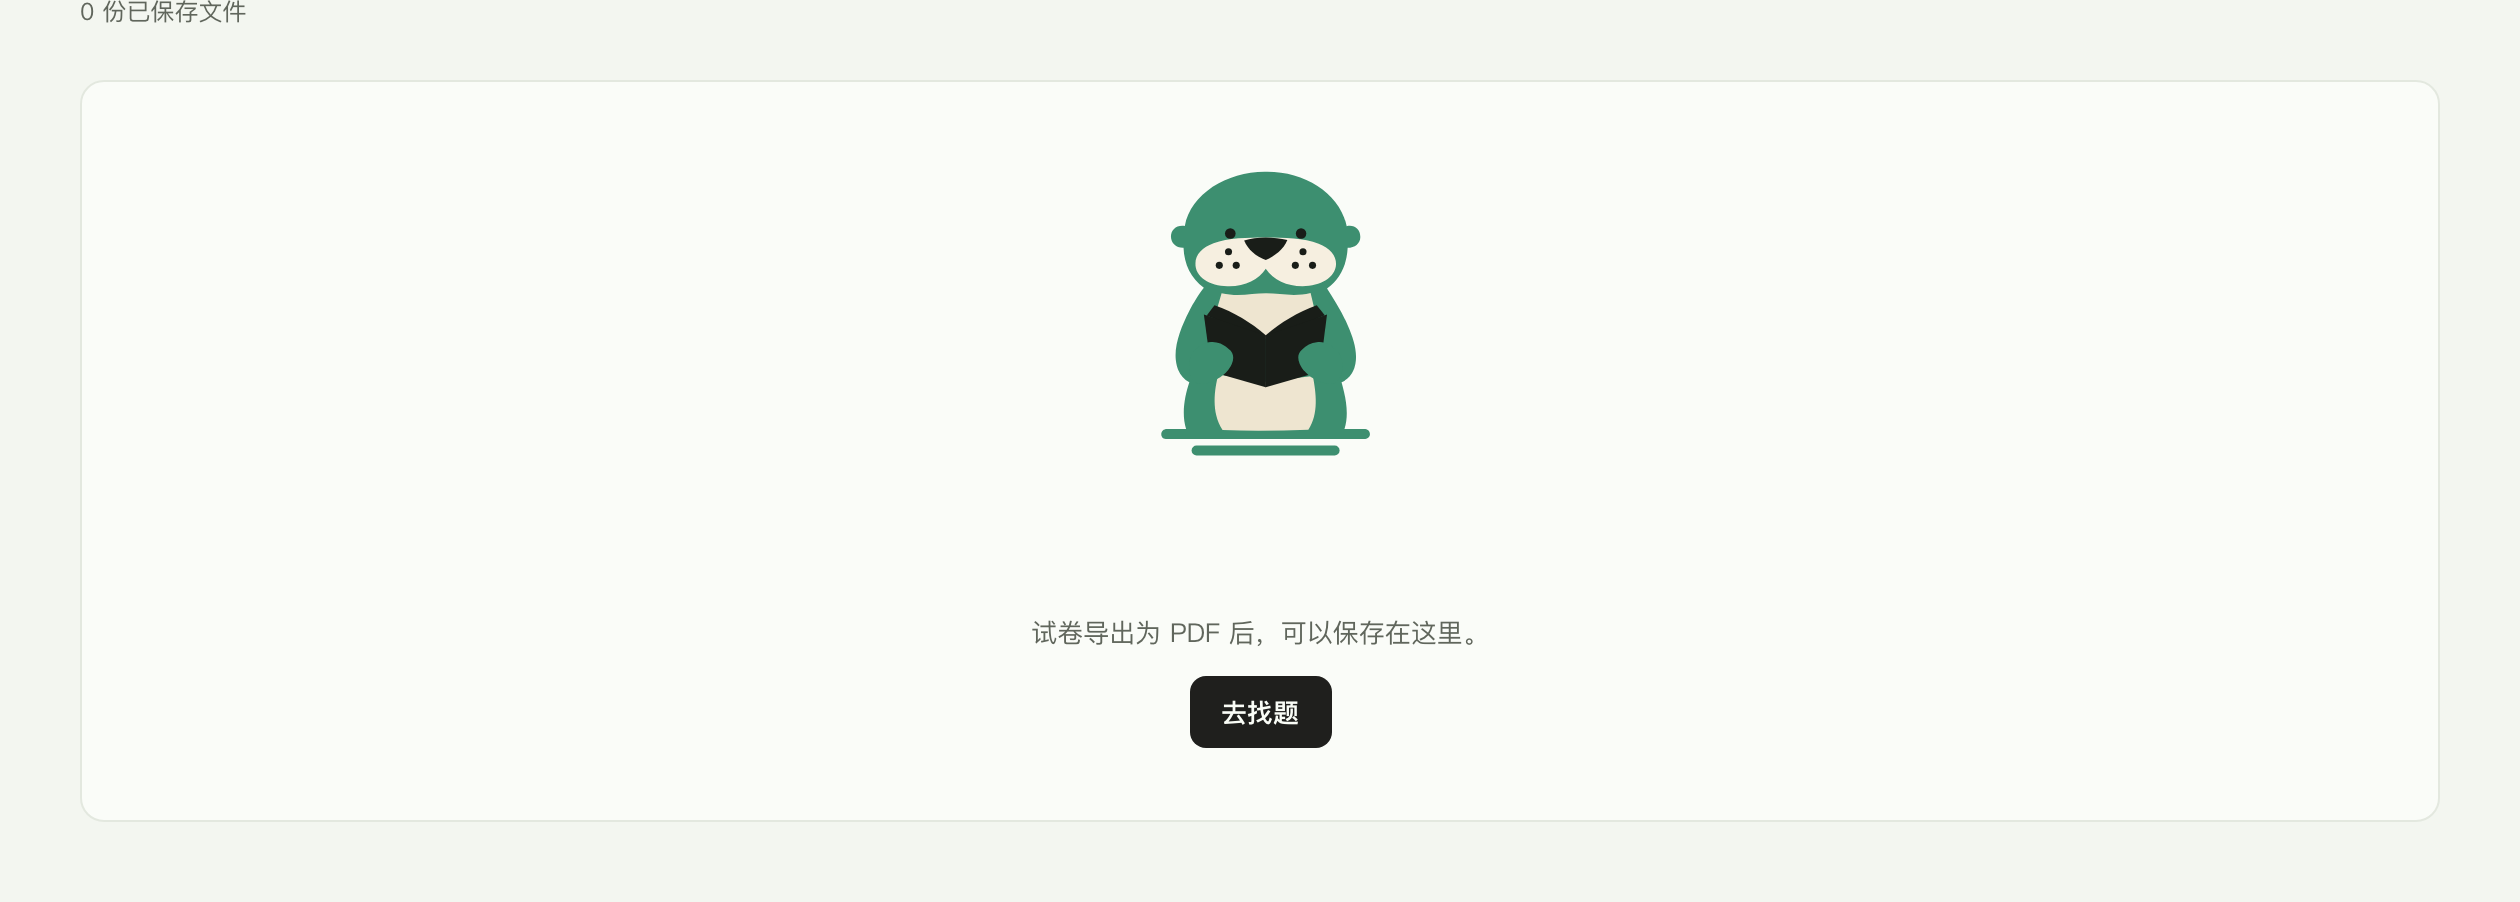
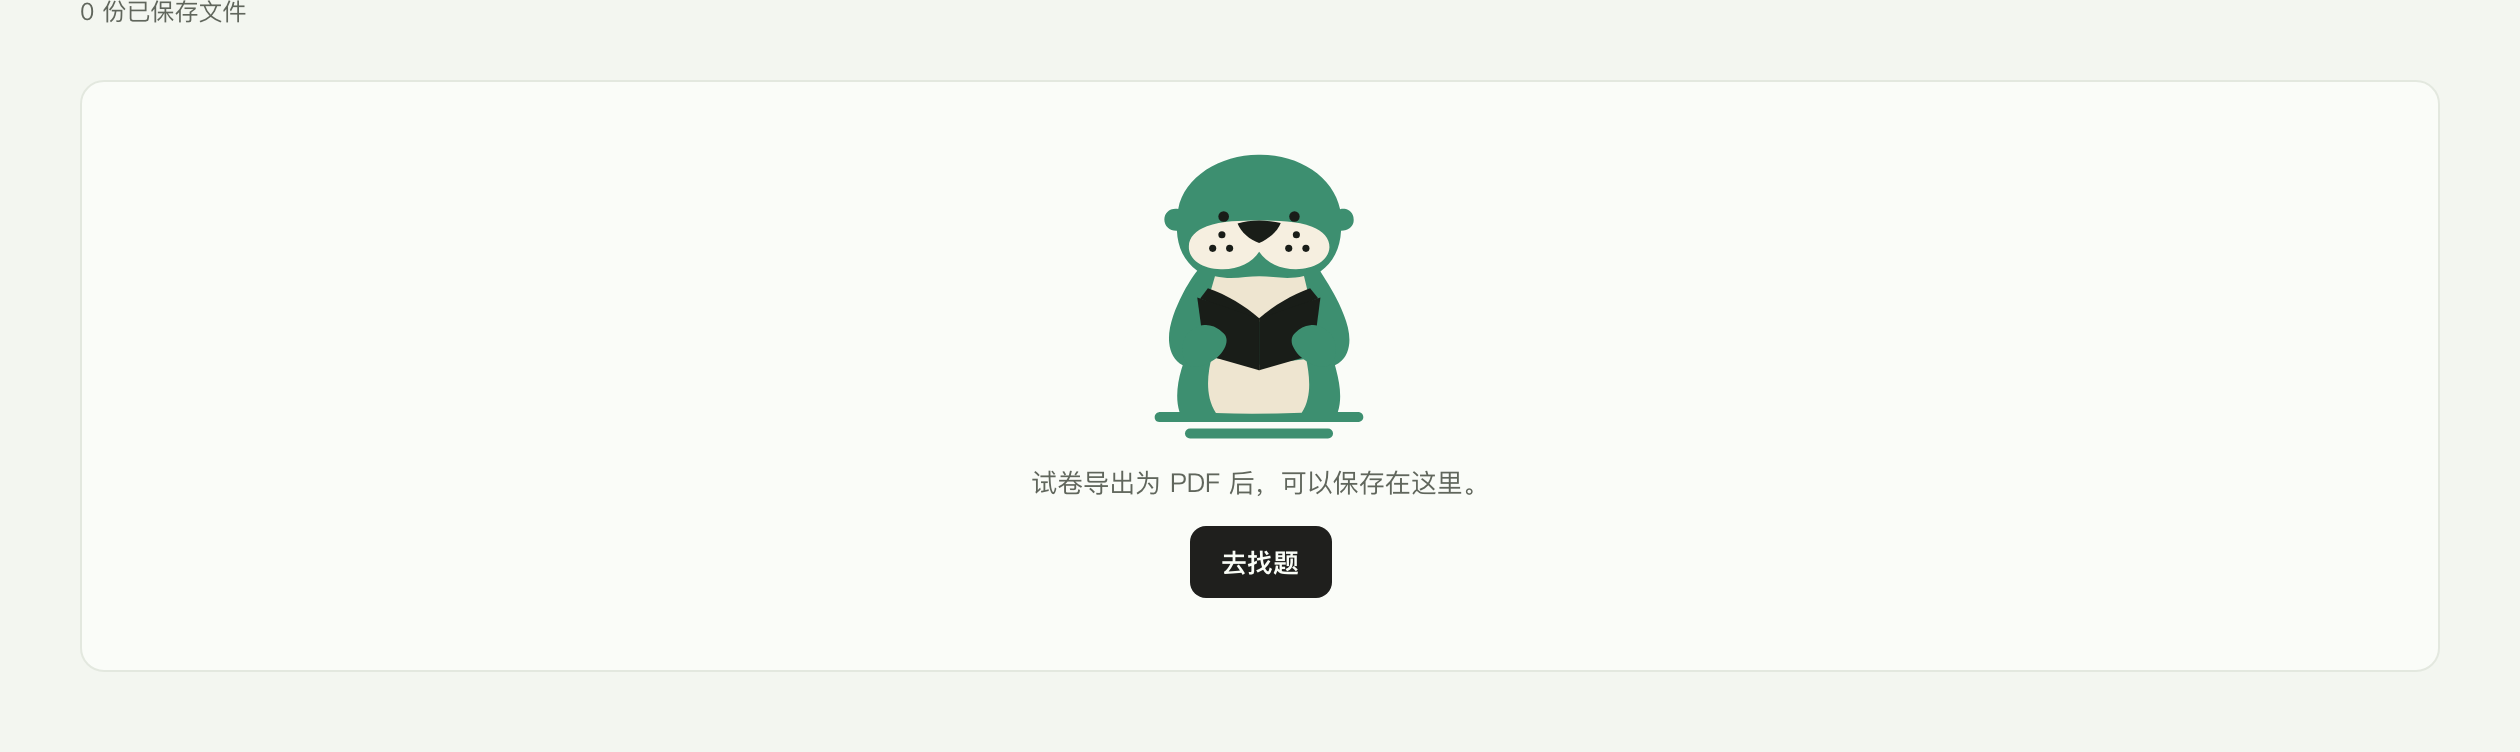
docs(brand): Schedule the otter's teaching-calendar outfits, pick the dive-to-ellipsis thinking motion, and fix the mascot viewBoxes

Changed region(s): [[0.4643, 0.1835, 0.5571, 0.5811], [0.4024, 0.6117, 0.5881, 0.8564], [0.031, 0.0, 0.0929, 0.0306]]

diff --git a/design/brand-2026-10-13/mascot/motion/thinking-dive.html b/design/brand-2026-10-13/mascot/motion/thinking-dive.html
@@ -1,0 +1,91 @@
+<!doctype html>
+<html lang="zh-CN">
+<head>
+<meta charset="utf-8">
+<title>獭獭动效 · 「正在想」潜下去、浮上来</title>
+<!--
+  BRAND.md §4.6「正在想」定 (b) 潜下去、浮上来（第 52 条）。状态 02 的路径原样，只给两颊的上点
+  加 class="whisker-top" 和到两个下点中点的位移（--dx / --dy，SVG 用户单位）。
+  - 进入「正在想」：先停 300ms，结果在这之前回来就不动；然后上点沿直线沉到两个下点之间，
+    220ms（DESIGN motion token slow），缓入缓出，不回弹。两颊各成一行三点，合起来是「……」。
+  - 停在省略号上，不循环；进度交给旁边的「正在为…找题…」和骨架屏。
+  - 想完、同一张图还在屏上：160ms（base）浮回 ∴。换成 03/04/05 时由换图承担，不先播浮上来。
+  - 点不放大、不变色、不闪。prefers-reduced-motion 时不移动，直接换。
+-->
+<style>
+  body { margin: 0; min-height: 100vh; display: flex; flex-direction: column; align-items: center; justify-content: center; gap: 24px; background: #F3F6F0; color: #191D18; font: 14px/1.5 Inter, "PingFang SC", system-ui, sans-serif; }
+  .otter { width: 215px; height: 150px; display: block; }
+  .stage { width: 360px; display: flex; flex-direction: column; align-items: flex-start; gap: 8px; }
+  .stage p { margin: 0; font-size: 13px; color: #60665C; }
+  button { height: 32px; padding: 0 12px; border: 1px solid #D5DACF; border-radius: 8px; background: #FAFCF8; color: #191D18; font: inherit; font-size: 13px; cursor: pointer; }
+  .controls { display: flex; gap: 8px; }
+
+  .whisker-top {
+    transform-box: view-box;
+    transition: transform 160ms cubic-bezier(0.45, 0, 0.55, 1);
+  }
+  .is-thinking .whisker-top {
+    transform: translate(var(--dx), var(--dy));
+    transition-duration: 220ms;
+    transition-delay: 300ms;
+  }
+  @media (prefers-reduced-motion: reduce) {
+    .whisker-top, .is-thinking .whisker-top { transition: none; }
+  }
+</style>
+</head>
+<body>
+<div class="stage" id="stage">
+<svg class="otter" role="img" aria-label="海獭 · 02 找题中" xmlns="http://www.w3.org/2000/svg" viewBox="30.5 25.5 963.5 671">
+<title>海獭 · 02 找题中</title>
+  <g id="_LD8-0__qeeo360">
+    <g id="_LD8-0__qeeo361">
+      <path id="_LD8-0__qeeo362" d="m665 474c42 15 81 38 134 53 58 20 103 26 160 16 14-2 26-6 31 3 8 15-15 34-35 44-48 24-104 32-158 23-45-6-83-17-116-32z" fill="#3D8F70" />
+      <path id="_LD8-0__qeeo363" d="m687 364 45 16c-1-24 7-54 21-59 12-6 20 6 23 20 4-18 12-26 23-20 10 5 12 17 11 29 8-17 19-24 28-15 8 6 7 16 4 26 12-15 25-18 33-6 10 17-3 58-13 85-15 38-37 68-67 89-31 22-62 30-87 23l-15-123z" fill="#3D8F70" />
+    </g>
+    <path d="m117 300c24-22 77-35 145-44 75-10 140-7 189 24 48 10 91 23 139 54l77 29c41 14 73 37 89 75 19 45 9 91-23 123-19 21-45 37-85 48-54 16-109 20-170 13-89-8-165-35-226-84-68-54-113-127-135-218z" fill="#3D8F70" />
+    <path id="_LD8-0__qeeo364" d="m150 304c67-1 184-25 249-44 30 21 70 34 114 53s96 28 148 43c45 13 85 36 99 84 19 57 1 106-48 134 14-26 18-65 13-106-3-32-9-64-26-68-10-4-17 6-19 22-5-15-13-23-22-19-9 3-12 14-11 27-12-17-19-21-27-15-7 4-8 15-6 27-13-15-25-13-31-2-6 13 1 37 10 50-25 3-46 17-62 37-62-18-116-46-160-82 11-23 3-49-15-62-21-16-51-10-73 19-60 1-98-28-124-83z" fill="#EEE5D0" />
+    <g id="_LD8-0__qeeo365">
+      <path id="_LD8-0__qeeo366" d="m267.5 354.5 120.5-80.5 74-1 69 32 50.5 48-117.5 46-13-9-118 43z" fill="#191D18" />
+      <path id="_LD8-0__qeeo367" d="m272 346c34-19 74-34 108-29l76 73c-28-7-56 7-87 16l-61-21z" fill="#F6EFE0" />
+      <path id="_LD8-0__qeeo368" d="m393 314c24-23 55-43 78-54 31 31 59 63 98 91-38 2-75 17-104 38z" fill="#F6EFE0" />
+    </g>
+    <path id="_LD8-0__qeeo369" d="m434 274c8-22 26-39 45-41 25-4 47 11 54 32 4 12 3 24 1 33-9 15-24 23-41 22-16-1-30-8-34-20-5-11-2-23 2-34-10 3-19 9-24 16z" fill="#3D8F70" />
+    <path id="_LD8-0__qeeo3610" d="m254 442c2-19 22-45 41-59 19-13 44-16 60-6 21 12 30 36 22 57-3 9-8 15-13 19 50 37 101 62 168 76l-2 54c-85-8-164-33-218-75-26-22-47-48-58-66z" fill="#3D8F70" />
+    <g>
+      <path id="_LD8-0__qeeo3611" d="m66 191c-3-43 20-84 54-112 37-31 80-49 125-51 37-2 79 6 110 19 39 16 62 44 73 77 14-9 27 2 33 13 8 16 2 35-20 39 5 35 0 61-21 80-31 30-83 42-138 52-61 11-113 16-153 12-33-6-51-35-57-77-12 5-26 1-34-9-7-8-7-19-1-28 5-9 17-16 29-15z" fill="#3D8F70" />
+      <path id="_LD8-0__qeeo3612" d="m102 250c4-24 24-41 52-51 30-10 64-17 100-23 38-6 75-10 105-7 28 2 48 13 54 32 9 23-4 43-24 55-21 12-47 18-71 17s-42-9-56-23c-13 24-38 41-69 48-29 7-58 4-74-5-14-7-20-24-17-43z" fill="#F6EFE0" />
+      <g id="_LD8-0__qeeo3613">
+        <path id="_LD8-0__qeeo3614" d="m202 191c31-8 63-14 95-17 0 20-9 41-24 49-25 16-55-6-71-32z" fill="#191D18" />
+        <circle id="_LD8-0__qeeo3615" cx="171.3" cy="177.1" r="14.3" fill="#191D18" />
+        <circle id="_LD8-0__qeeo3616" cx="330.5" cy="151.5" r="14.3" fill="#191D18" />
+        <circle class="whisker-top" style="--dx:5.45px;--dy:31.7px" id="_LD8-0__qeeo3617" cx="170" cy="222.7" r="8.2" fill="#191D18" />
+        <circle id="_LD8-0__qeeo3618" cx="155.7" cy="257.8" r="8.5" fill="#191D18" />
+        <circle id="_LD8-0__qeeo3619" cx="195.2" cy="251" r="8.3" fill="#191D18" />
+        <circle class="whisker-top" style="--dx:5.8px;--dy:30.75px" id="_LD8-0__qeeo3620" cx="337.8" cy="191.8" r="8.3" fill="#191D18" />
+        <circle id="_LD8-0__qeeo3621" cx="324.3" cy="227.1" r="8.4" fill="#191D18" />
+        <circle id="_LD8-0__qeeo3622" cx="362.9" cy="218" r="8.2" fill="#191D18" />
+      </g>
+    </g>
+    <g id="_LD8-0__qeeo3623">
+      <path id="_LD8-0__qeeo3624" d="m164 493c43 54 105 89 183 125-53-4-98-23-132-53-28-24-48-47-51-72z" fill="#3D8F70" />
+      <path id="_LD8-0__qeeo3625" d="m233 607c73 46 166 70 298 77-48 17-118 12-175-5-54-16-99-42-123-72z" fill="#3D8F70" />
+      <path id="_LD8-0__qeeo3626" d="m503 653c69 3 152-11 215-27-45 40-134 55-215 27z" fill="#3D8F70" />
+      <path id="_LD8-0__qeeo3627" d="m716 626c52 9 109 11 174 1-38 34-109 37-174-1z" fill="#3D8F70" />
+    </g>
+  </g>
+</svg>
+  <p id="status">∴ 静止</p>
+</div>
+<div class="controls">
+  <button type="button" id="think">开始找题</button>
+  <button type="button" id="done">想完（同一张图）</button>
+</div>
+<script>
+  const stage = document.getElementById('stage');
+  const status = document.getElementById('status');
+  document.getElementById('think').onclick = () => { stage.classList.add('is-thinking'); status.textContent = '正在为「失败以后重新振作的文章」找题…'; };
+  document.getElementById('done').onclick = () => { stage.classList.remove('is-thinking'); status.textContent = '∴ 静止'; };
+</script>
+</body>
+</html>
